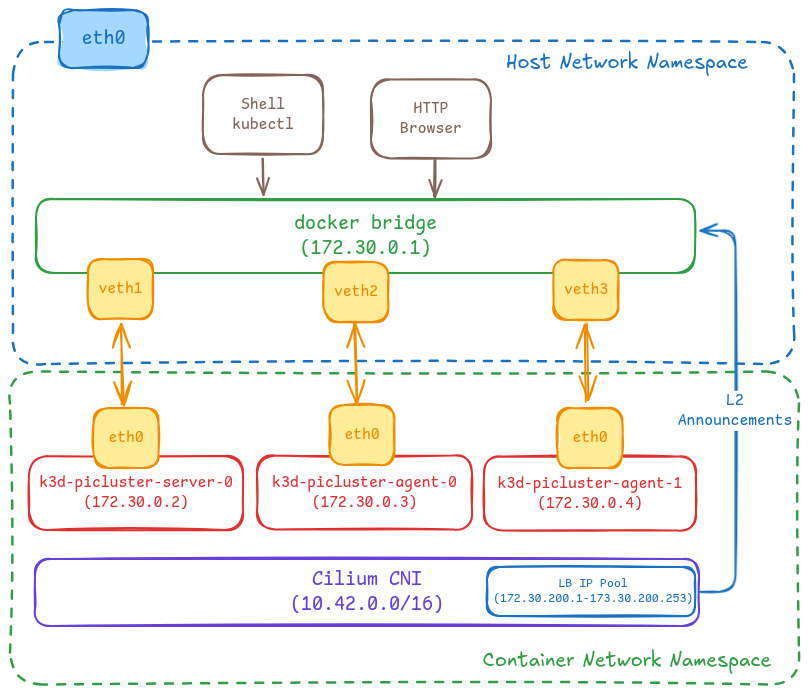
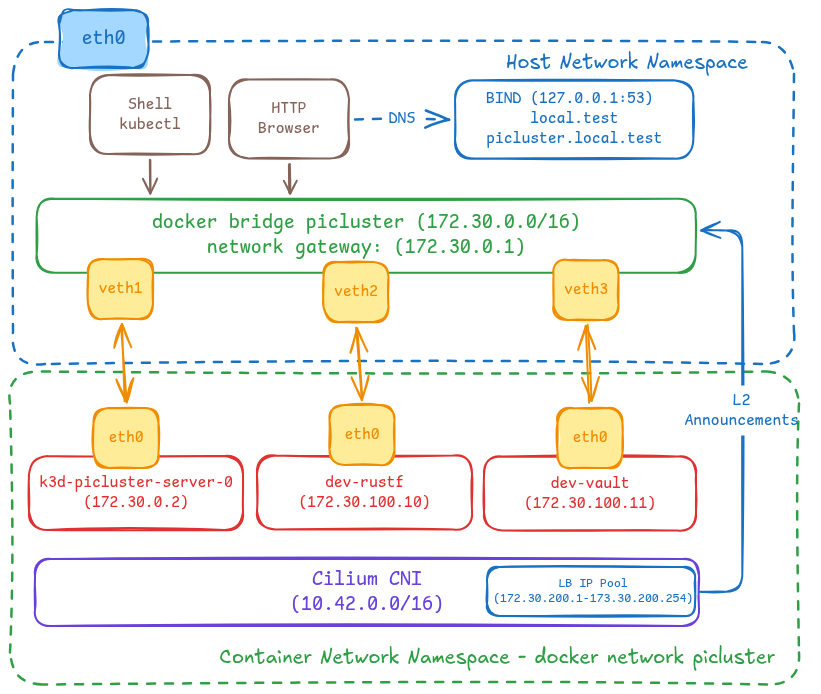
docs(dev) updating original transparent dev network architecture

diff --git a/docs/_docs/dev.md b/docs/_docs/dev.md
@@ -18,8 +18,6 @@ The development setup is the following:
   `rustfs.picluster.local.test` and `vault.picluster.local.test` resolve to the
   dev addresses without `kubectl port-forward` (see [BIND9](#bind9))
 
-![picluster-dev-k3d](/assets/img/pi-cluster-dev-k3d-architecture.png)
-
 {{site.data.alerts.note}}
 The recommended path is the automated workflow (`make -C dev dev-up`). The
 manual walkthrough below is kept so each step can be understood and debugged.
@@ -172,7 +170,7 @@ Cilium-assigned LoadBalancer IP — `HTTP_GATEWAY_LOAD_BALANCER_IP`, default
 to `172.30.0.0/16` through that bridge, so the gateway is reachable without
 `kubectl port-forward`; only DNS and TLS trust are missing.
 
-![k3d dev network namespaces](/assets/img/pi-cluster-dev-k3d-network.svg)
+![k3d dev network namespaces](/assets/img/pi-cluster-dev-k3d-architecture.png)
 
 The diagram is split by network namespace: the host owns the `picluster` bridge
 and the `veth` side of every pair, the containers own the other side. `veth1`
